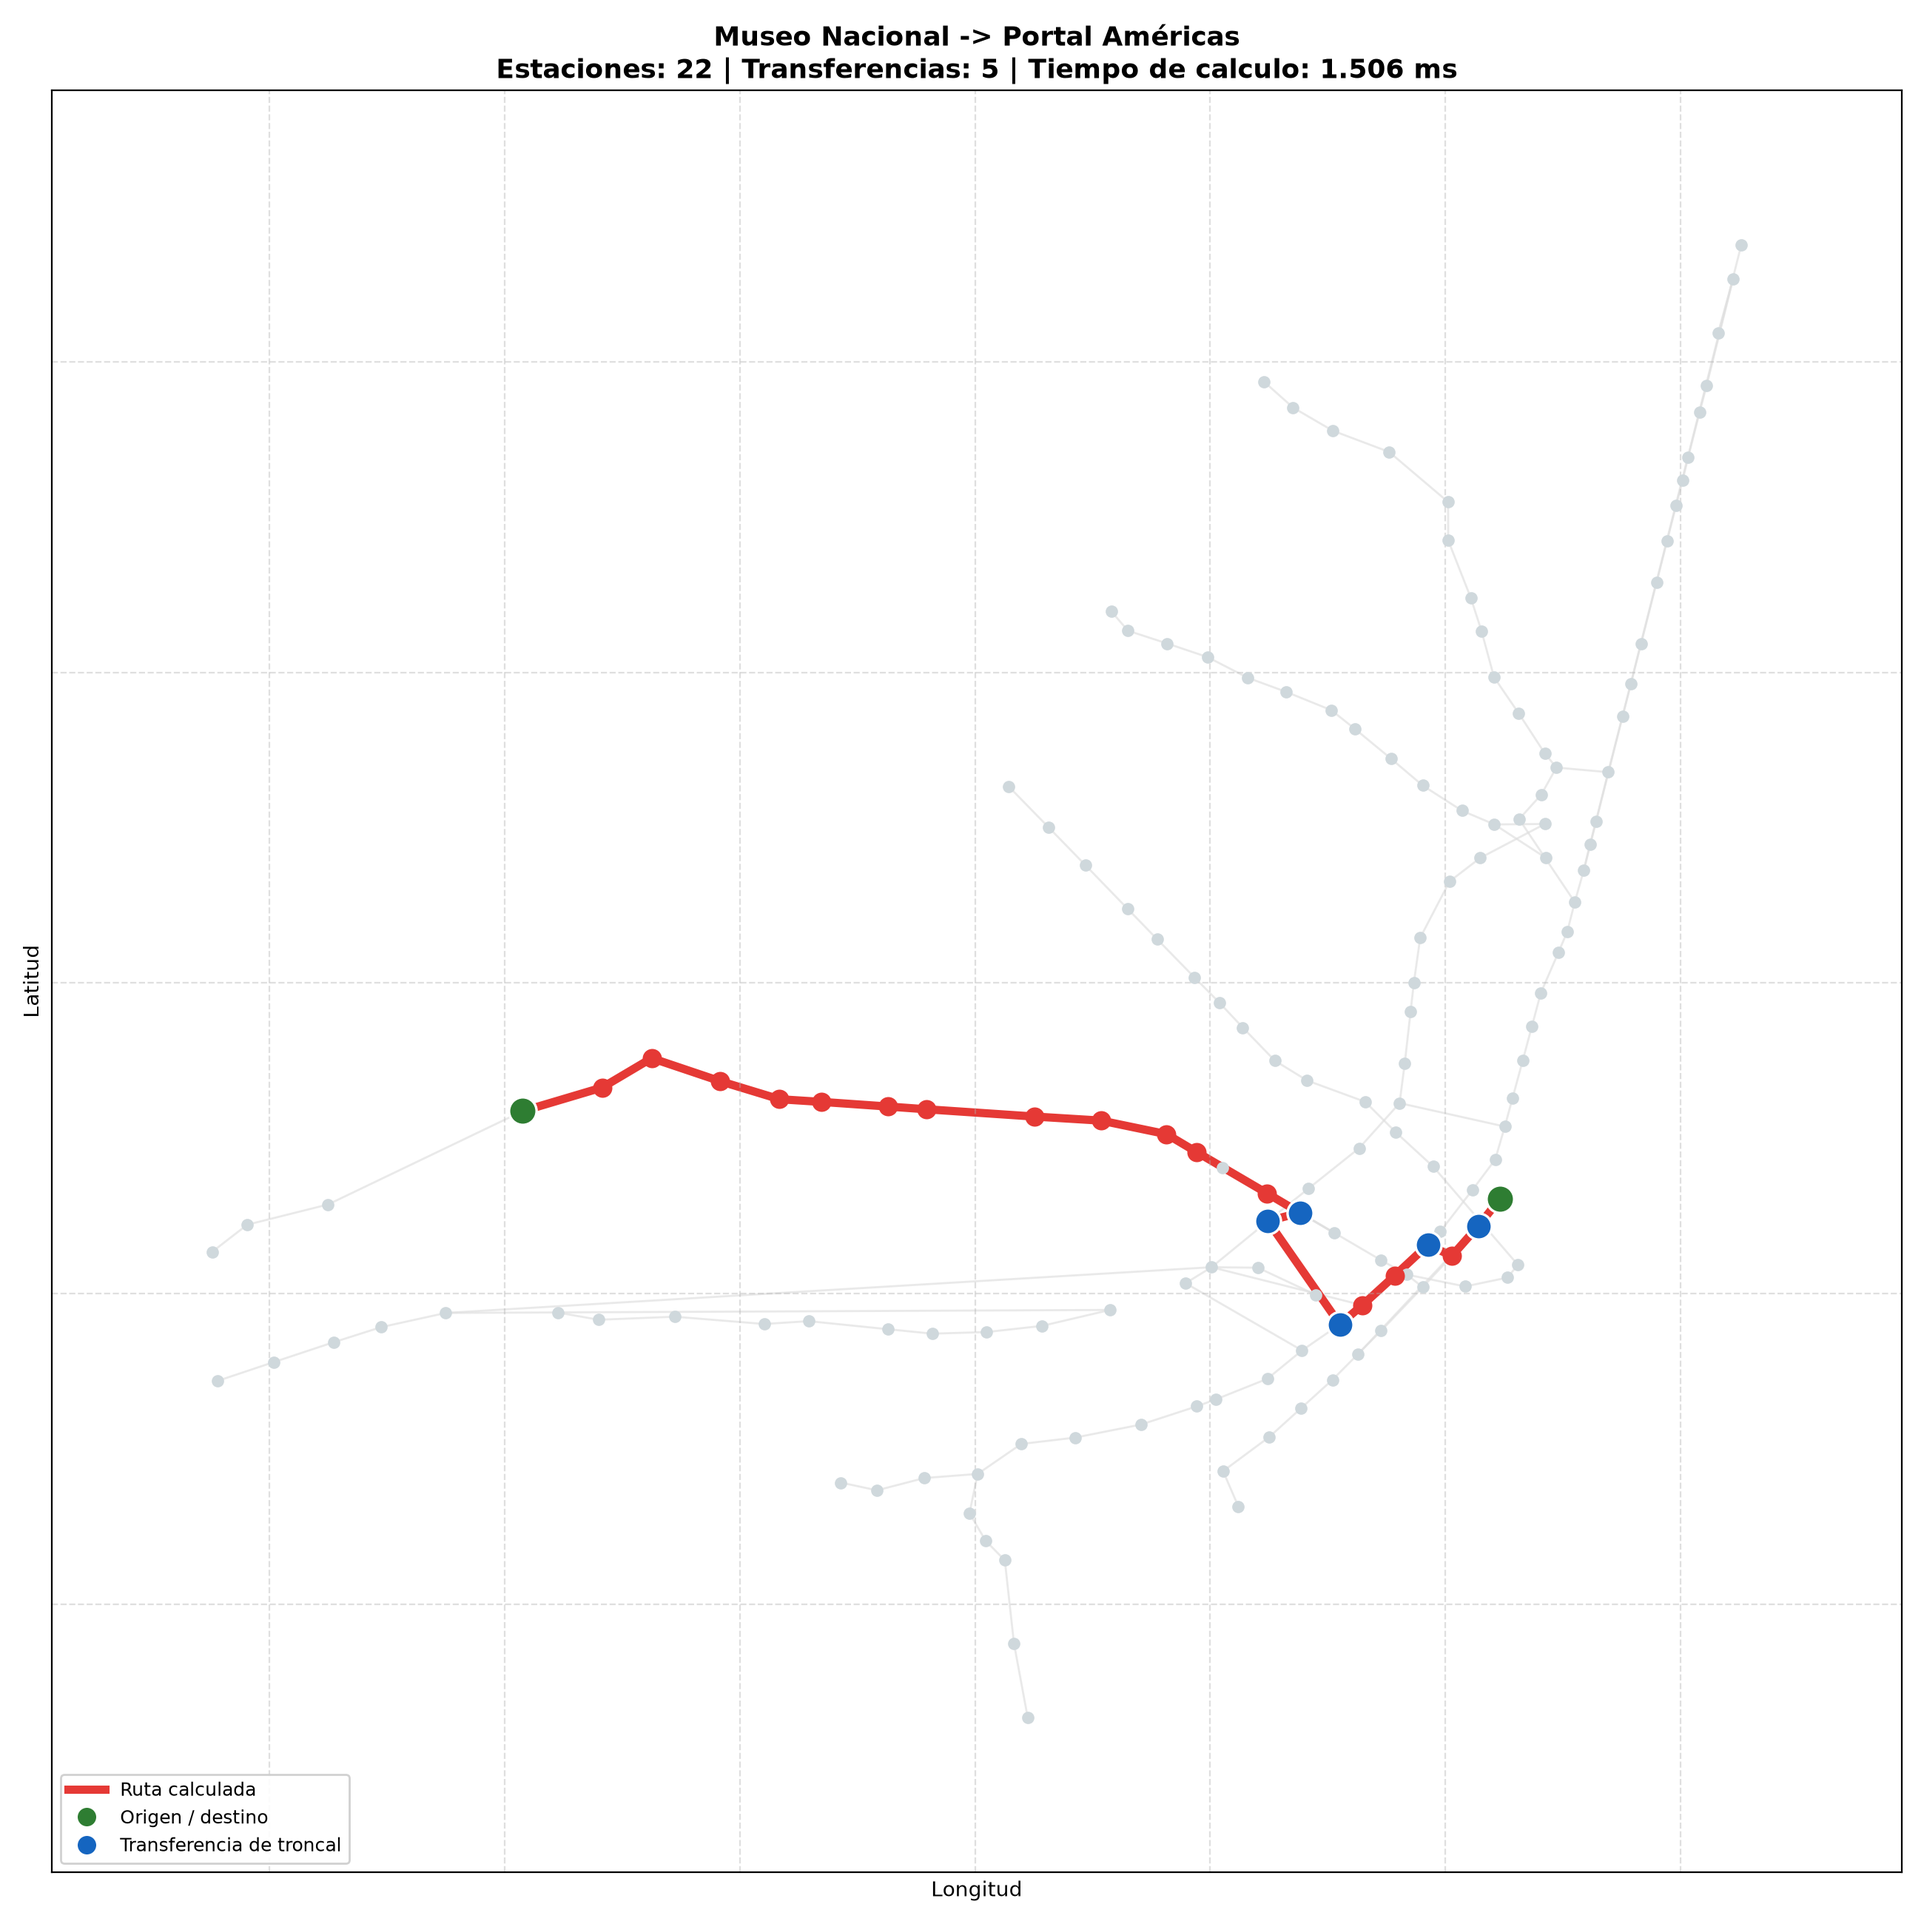
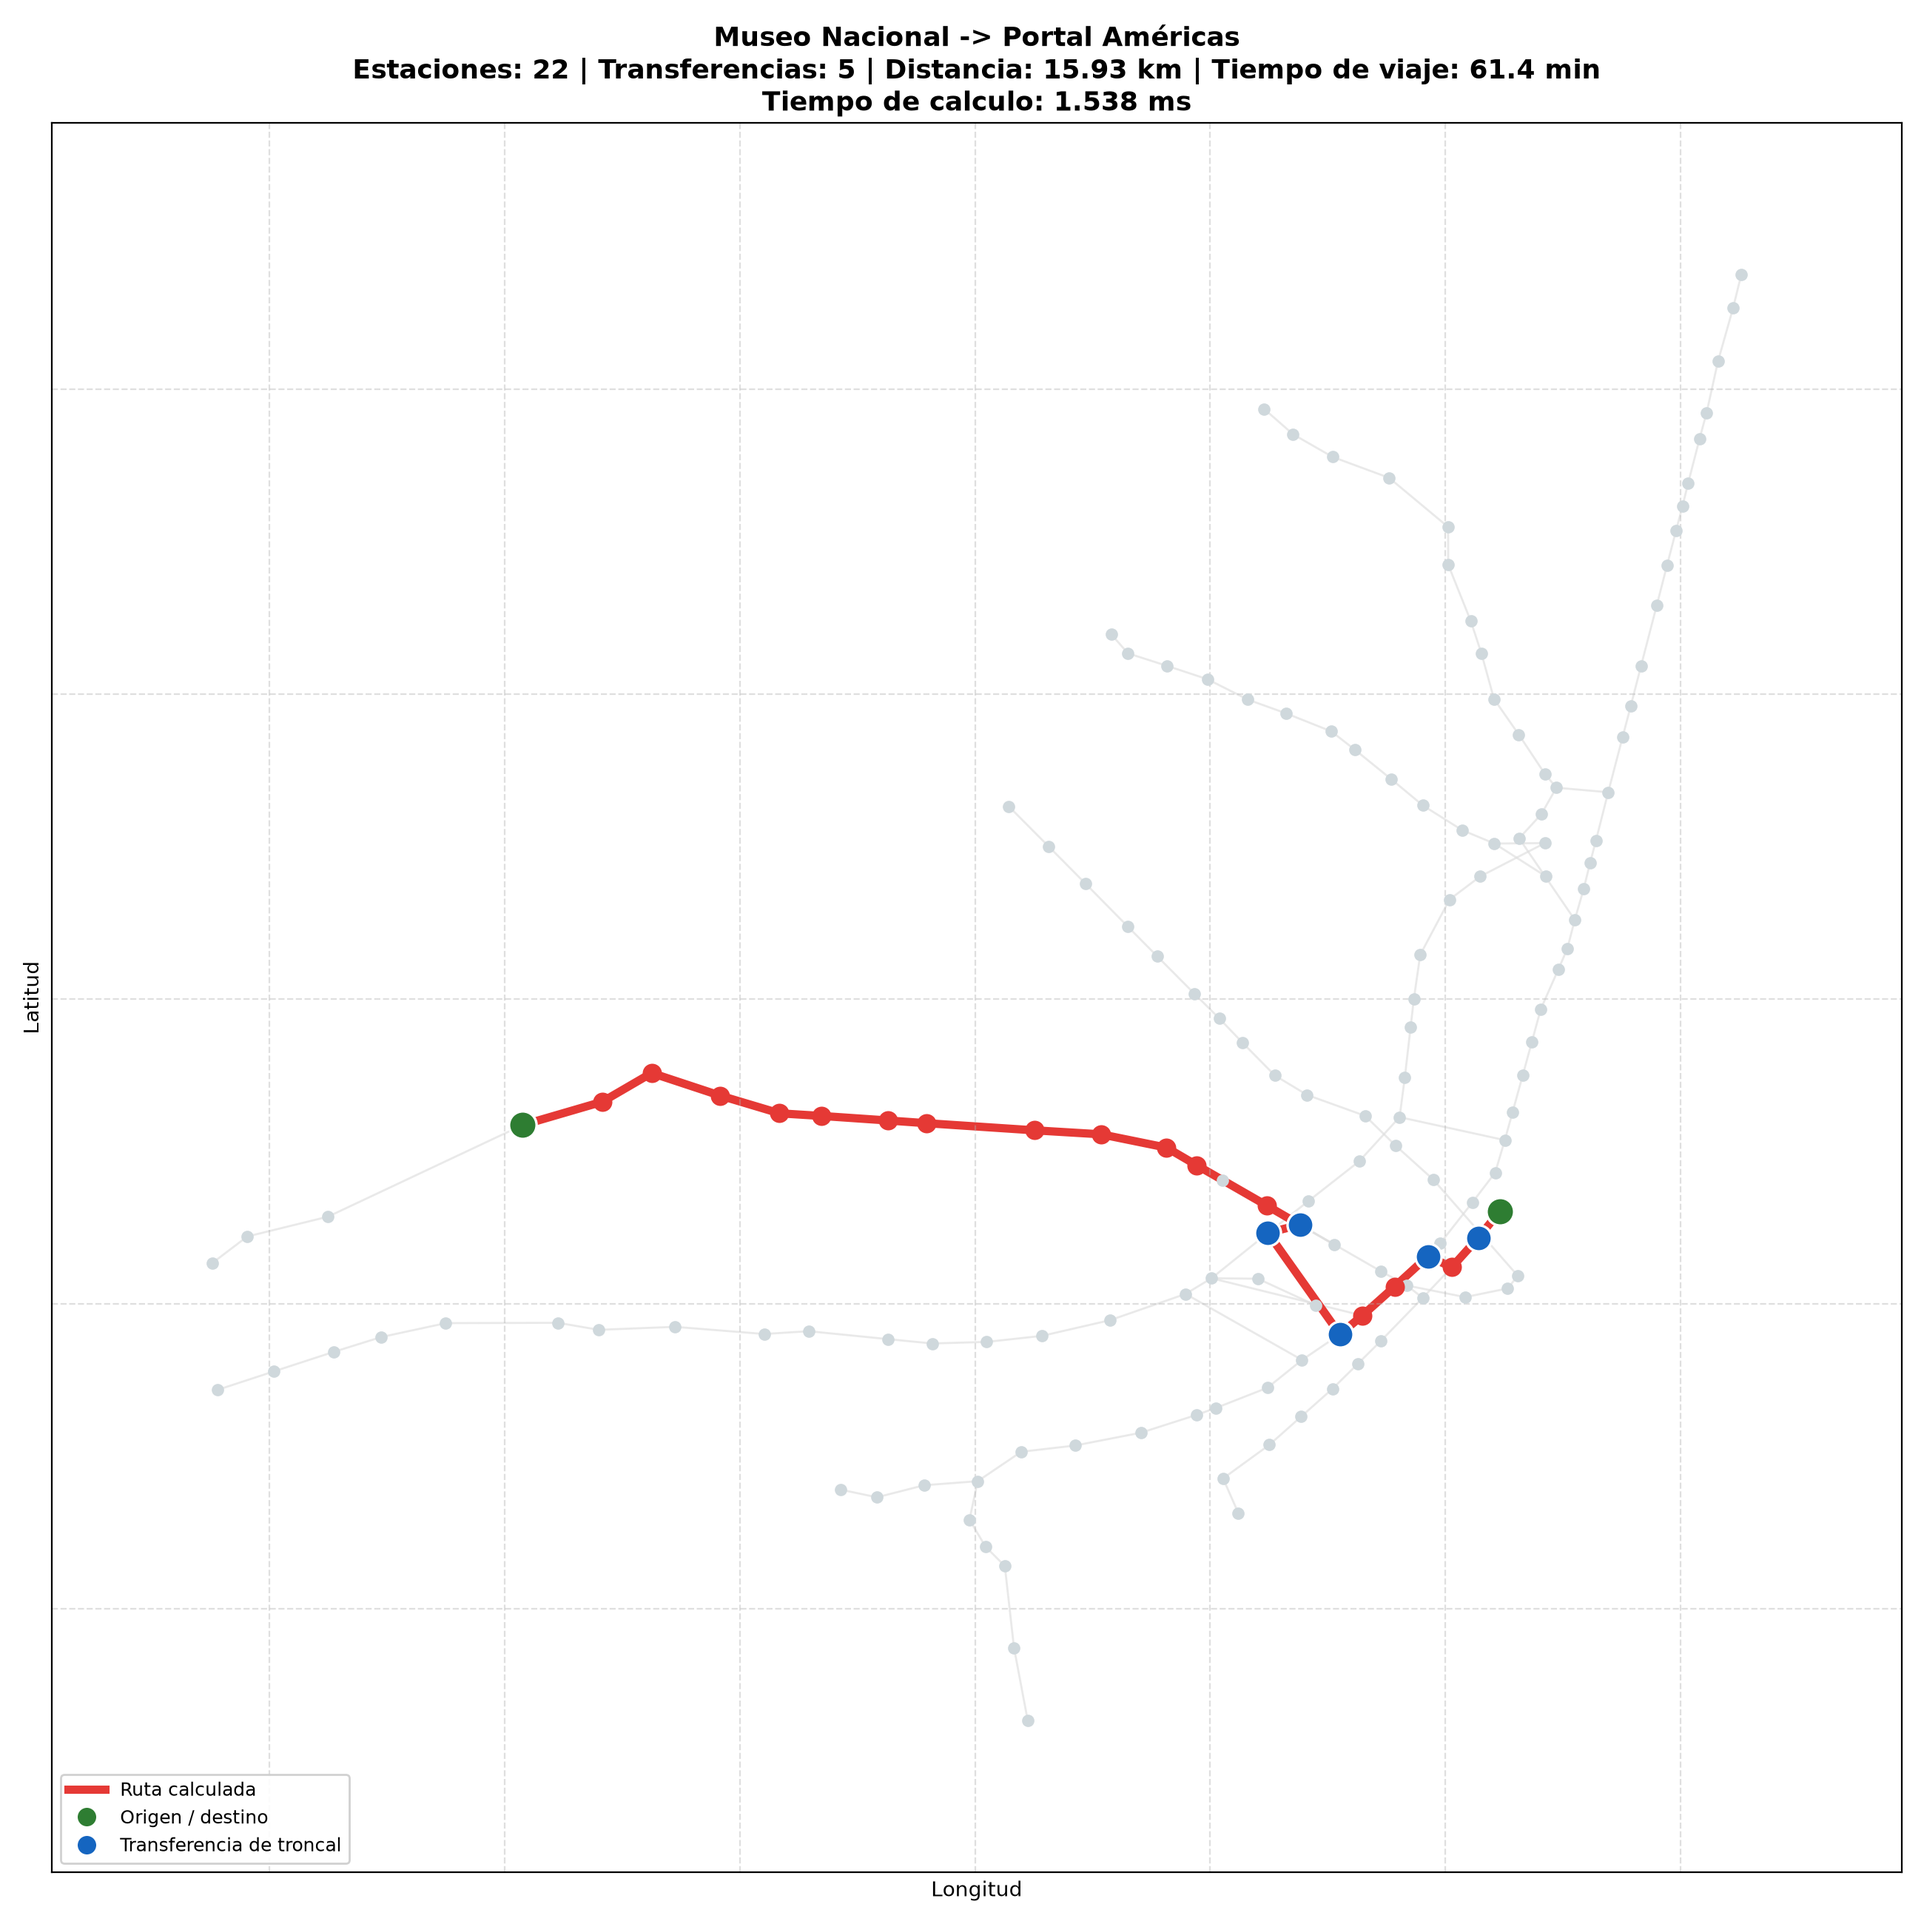
feat: distancia_total_km y tiempo_viaje_min en las pruebas del agente
AgenteRutas.calcular_ruta() ahora suma tiempo_min a lo largo de la ruta
(tiempo_viaje_min: cuanto dura el viaje) ademas de weight (renombrado de
costo_total_km a distancia_total_km, mas preciso - nada mas dependia del
nombre viejo). No confundir con tiempo_calculo_ms, que es cuanto tarda
Dijkstra en encontrar la ruta.

pruebas_agente.py agrega una asercion por caso sobre num_estaciones
esperado (documentado en el docstring junto con distancia y tiempo de
viaje esperados) para detectar si el grafo cargado no tiene el orden
corregido por geometria de la Parte 1, y una tabla resumen con
estaciones/transferencias/distancia/tiempo de viaje/tiempo de calculo.
visualizar_ruta.py muestra distancia y tiempo de viaje en el titulo de
cada imagen.

Verificado contra los 3 casos de prueba: 40/25.77km/67.8min,
43/28.16km/73.6min, 22/15.93km/61.4min - coincide con los valores
esperados documentados.

diff --git a/src/pruebas_agente.py b/src/pruebas_agente.py
@@ -17,13 +17,25 @@ id_trazado, sin conexiones entre troncales):
      completo) y Americas era otra componente de 17 nodos.
 
 Para cada par se imprime y guarda: la ruta completa, el numero de estaciones,
-el numero de transferencias de troncal, el costo total, y el tiempo de
-calculo ("tiempo_calculo_ms") y memoria pico ("memoria_pico_kb") que reporta
-AgenteRutas.calcular_ruta(). Esto demuestra que la conexion entre troncales
-funciona de extremo a extremo (no solo que nx.number_connected_components(G)
-reporte 1) y deja una primera medida de rendimiento del placeholder de
-busqueda (Dijkstra via networkx) para comparar en el Corte 2 contra BFS/DFS/
-UCS/voraz/A*.
+el numero de transferencias de troncal, la distancia total ("distancia_total_km"),
+el tiempo de viaje estimado ("tiempo_viaje_min", suma de tiempo_min de cada
+arista de la ruta - ver build_graph.py), y el tiempo de calculo
+("tiempo_calculo_ms") y memoria pico ("memoria_pico_kb") que reporta
+AgenteRutas.calcular_ruta(). tiempo_viaje_min es cuanto dura el viaje;
+tiempo_calculo_ms es cuanto tarda el algoritmo en calcular la ruta - no
+confundirlos. Esto demuestra que la conexion entre troncales funciona de
+extremo a extremo (no solo que nx.number_connected_components(G) reporte 1) y
+deja una primera medida de rendimiento del placeholder de busqueda (Dijkstra
+via networkx) para comparar en el Corte 2 contra BFS/DFS/UCS/voraz/A*.
+
+Valores esperados (con el orden de estaciones ya corregido con la geometria
+real del trazado, ver "Bitacora: orden de estaciones..." en build_graph.py):
+    Portal Suba -> Portal Tunal:          40 estaciones, 2 transf., 25.77 km, ~67.8 min
+    Portal Norte -> Portal Usme:          43 estaciones, 2 transf., 28.16 km, ~73.5 min
+    Museo Nacional -> Portal Americas:    22 estaciones, 5 transf., 15.93 km, ~61.5 min
+Si Portal Norte -> Portal Usme da 44 estaciones (en vez de 43) o 30.13 km (en
+vez de 28.16 km), el grafo cargado no tiene el orden corregido de la Parte 1
+(revisar que se corrio build_graph.py despues de esa correccion).
 """
 
 import json
@@ -39,16 +51,19 @@ CASOS_DE_PRUEBA = [
         "descripcion": "Portal Suba (Suba) -> Portal Tunal (Caracas Sur)",
         "origen": 3000,  # Portal Suba
         "destino": 8000,  # Portal Tunal
+        "num_estaciones_esperado": 40,
     },
     {
         "descripcion": "Portal Norte (Autopista Norte) -> Portal Usme (Caracas Sur)",
         "origen": 2000,  # Portal Norte - Unicervantes
         "destino": 9000,  # Portal Usme
+        "num_estaciones_esperado": 43,
     },
     {
         "descripcion": "Museo Nacional (Carrera 7) -> Portal Americas (Americas)",
         "origen": 10009,  # Museo Nacional
         "destino": 5000,  # Portal Americas
+        "num_estaciones_esperado": 22,
     },
 ]
 
@@ -64,6 +79,11 @@ def main():
         resultado = agente.imprimir_ruta(caso["origen"], caso["destino"])
         assert resultado["exito"], f"La ruta deberia existir tras la correccion: {caso}"
         assert resultado["num_transferencias"] >= 1, "Se esperaba al menos una transferencia de troncal"
+        assert resultado["num_estaciones"] == caso["num_estaciones_esperado"], (
+            f"num_estaciones={resultado['num_estaciones']}, se esperaba "
+            f"{caso['num_estaciones_esperado']}: el grafo cargado no parece tener "
+            "el orden corregido de la Parte 1 (geometria real en vez de num_est)."
+        )
         resultados.append({"caso": caso["descripcion"], **resultado})
         print()
 
@@ -77,15 +97,19 @@ def main():
 
 
 def imprimir_tabla_tiempos(resultados: list) -> None:
-    """Tabla resumen: ruta, tiempo de calculo, num_estaciones, num_transferencias."""
-    encabezado = f"{'Ruta':<45} {'Tiempo (ms)':>12} {'Estaciones':>11} {'Transferencias':>15}"
+    """Tabla resumen: ruta, estaciones, transferencias, distancia, tiempo de viaje, tiempo de calculo."""
+    encabezado = (
+        f"{'Ruta':<45} {'Estaciones':>10} {'Transfer.':>9} "
+        f"{'Distancia':>10} {'T. viaje':>9} {'T. calculo':>11}"
+    )
     print("\n" + encabezado)
     print("-" * len(encabezado))
     for r in resultados:
         ruta_txt = f"{r['origen']} -> {r['destino']}"
         print(
-            f"{ruta_txt:<45} {r['tiempo_calculo_ms']:>12.3f} "
-            f"{r['num_estaciones']:>11} {r['num_transferencias']:>15}"
+            f"{ruta_txt:<45} {r['num_estaciones']:>10} {r['num_transferencias']:>9} "
+            f"{r['distancia_total_km']:>8.2f}km {r['tiempo_viaje_min']:>7.1f}' "
+            f"{r['tiempo_calculo_ms']:>9.3f}ms"
         )
 
 

diff --git a/src/agente.py b/src/agente.py
@@ -84,16 +84,20 @@ class AgenteRutas:
         return candidatos[0]
 
     def calcular_ruta(self, origen, destino) -> dict:
-        """Calcula la ruta de menor costo entre origen y destino.
+        """Calcula la ruta de menor costo (distancia, `weight`) entre origen y
+        destino.
 
         origen/destino: nombre de estacion (str) o cod_nodo (int).
-        Retorna un dict con la lista de estaciones, el costo total, las
-        transferencias de troncal detectadas a lo largo de la ruta, y el
-        tiempo de calculo ("tiempo_calculo_ms") y memoria pico usada por el
-        calculo ("memoria_pico_kb", medida con tracemalloc, modulo estandar
-        de Python). Ambas metricas se miden solo alrededor del calculo de la
-        ruta (Dijkstra vía nx.shortest_path), no de la carga del grafo ni de
-        la resolucion de nombres a cod_nodo.
+        Retorna un dict con la lista de estaciones, la distancia total
+        ("distancia_total_km"), el tiempo de viaje estimado sumando
+        `tiempo_min` a lo largo de la ruta ("tiempo_viaje_min" -distinto de
+        cuanto tarda el algoritmo en calcularla-), las transferencias de
+        troncal detectadas, y el tiempo de calculo ("tiempo_calculo_ms") y
+        memoria pico usada por el calculo ("memoria_pico_kb", medida con
+        tracemalloc, modulo estandar de Python). Estas dos ultimas metricas se
+        miden solo alrededor del calculo de la ruta (Dijkstra vía
+        nx.shortest_path), no de la carga del grafo ni de la resolucion de
+        nombres a cod_nodo.
         """
         cod_origen = self.resolver_nodo(origen)
         cod_destino = self.resolver_nodo(destino)
@@ -119,12 +123,13 @@ class AgenteRutas:
         tiempo_calculo_ms = (t_fin - t_inicio) * 1000
         memoria_pico_kb = pico_bytes / 1024
 
-        # Costo total = suma de pesos a lo largo del camino ya encontrado, en vez
-        # de una segunda llamada a nx.shortest_path_length (que repetiria todo el
-        # calculo de Dijkstra y falsearia el tiempo medido arriba).
-        costo_total = sum(
-            self.G[u][v]["weight"] for u, v in zip(camino, camino[1:])
-        )
+        # Distancia total = suma de pesos a lo largo del camino ya encontrado, en
+        # vez de una segunda llamada a nx.shortest_path_length (que repetiria todo
+        # el calculo de Dijkstra y falsearia el tiempo medido arriba). tiempo_viaje
+        # se suma de la misma forma sobre tiempo_min (ver build_graph.py).
+        aristas_ruta = list(zip(camino, camino[1:]))
+        distancia_total = sum(self.G[u][v]["weight"] for u, v in aristas_ruta)
+        tiempo_viaje_min = sum(self.G[u][v]["tiempo_min"] for u, v in aristas_ruta)
 
         estaciones = [
             {"cod_nodo": c, "nom_est": self.G.nodes[c]["nom_est"], "nom_tronc": self.G.nodes[c]["nom_tronc"]}
@@ -148,7 +153,8 @@ class AgenteRutas:
             "destino": estaciones[-1]["nom_est"],
             "num_estaciones": len(estaciones),
             "num_transferencias": len(transferencias),
-            "costo_total_km": round(costo_total, 3),
+            "distancia_total_km": round(distancia_total, 3),
+            "tiempo_viaje_min": round(tiempo_viaje_min, 2),
             "tiempo_calculo_ms": tiempo_calculo_ms,
             "memoria_pico_kb": memoria_pico_kb,
             "ruta": estaciones,
@@ -163,7 +169,8 @@ class AgenteRutas:
 
         print(f"Ruta: {resultado['origen']} -> {resultado['destino']}")
         print(f"  Estaciones: {resultado['num_estaciones']} | Transferencias: {resultado['num_transferencias']} "
-              f"| Costo total: {resultado['costo_total_km']} km "
+              f"| Distancia: {resultado['distancia_total_km']} km "
+              f"| Tiempo de viaje: {resultado['tiempo_viaje_min']:.1f} min "
               f"| Tiempo de calculo: {resultado['tiempo_calculo_ms']:.3f} ms "
               f"| Memoria pico: {resultado['memoria_pico_kb']:.2f} KB")
         for i, est in enumerate(resultado["ruta"]):

diff --git a/src/visualizar_ruta.py b/src/visualizar_ruta.py
@@ -82,7 +82,8 @@ def dibujar_ruta(agente: AgenteRutas, origen, destino, archivo_salida: Path) -> 
     titulo = (
         f"{resultado['origen']} -> {resultado['destino']}\n"
         f"Estaciones: {resultado['num_estaciones']} | Transferencias: {resultado['num_transferencias']} "
-        f"| Tiempo de calculo: {resultado['tiempo_calculo_ms']:.3f} ms"
+        f"| Distancia: {resultado['distancia_total_km']} km | Tiempo de viaje: {resultado['tiempo_viaje_min']:.1f} min\n"
+        f"Tiempo de calculo: {resultado['tiempo_calculo_ms']:.3f} ms"
     )
     ax.set_title(titulo, fontsize=13, fontweight="bold")
     ax.set_xlabel("Longitud")
